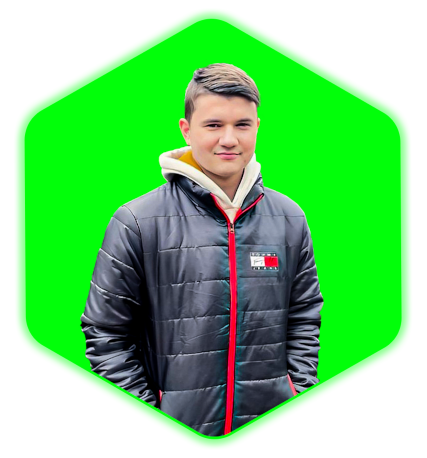
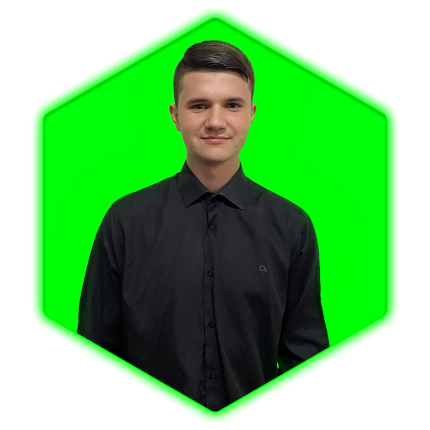
arrumando bug menu, efeito na seção, alterando foto e mudando texto da seçao sobre mim

diff --git a/src/components/Cabecalho/cabecalho.tsx b/src/components/Cabecalho/cabecalho.tsx
@@ -1,38 +1,102 @@
 import Botao from "../Botao/botao";
 import "bootstrap/dist/js/bootstrap.bundle.min.js";
 import "./cabecalho.css";
+import "bootstrap/dist/css/bootstrap.min.css";
+import "bootstrap/dist/js/bootstrap.bundle.min";
+import { useEffect, useRef } from "react";
 
 const curriculo = require("../../assets/curriculo.pdf")
 
+
+
 export default function Cabecalho() {
+  const offcanvasRef = useRef<HTMLDivElement | null>(null);
+
+  useEffect(() => {
+    const handleLinkClick = (event: Event) => {
+      const target = event.target as HTMLElement;
+      const offcanvas = offcanvasRef.current;
+
+      if (offcanvas && target.tagName === "A") {
+        event.preventDefault();
+        offcanvas.classList.remove("show");
+        offcanvas.style.visibility = "hidden";
+        document.body.style.overflow = "auto";
+
+        const targetId = (target.getAttribute("href") ?? "").slice(1);
+        if (targetId) {
+          document.getElementById(targetId)?.scrollIntoView({ behavior: "smooth" });
+        }
+
+        const backdrop = document.querySelector(".offcanvas-backdrop");
+        if (backdrop) {
+          backdrop.remove();
+        }
+
+        const toggleButton = document.querySelector(".navbar-toggler") as HTMLElement;
+        if (toggleButton) {
+          toggleButton.setAttribute("aria-expanded", "false");
+        }
+      }
+    };
+
+    document.addEventListener("click", handleLinkClick);
+    return () => {
+      document.removeEventListener("click", handleLinkClick);
+    };
+  }, []);
+
+  const toggleMenu = () => {
+    const offcanvas = offcanvasRef.current;
+    if (offcanvas) {
+      const isVisible = offcanvas.classList.contains("show");
+      if (isVisible) {
+        offcanvas.classList.remove("show");
+        offcanvas.style.visibility = "hidden";
+        document.body.style.overflow = "auto";
+      } else {
+        offcanvas.classList.add("show");
+        offcanvas.style.visibility = "visible";
+        document.body.style.overflow = "hidden";
+      }
+
+      // Remover backdrop antigo
+      const backdrop = document.querySelector(".offcanvas-backdrop");
+      if (backdrop) {
+        backdrop.remove();
+      }
+    }
+  };
+
   return (
     <header className="container-fluid py-3">
       <nav className="navbar navbar-expand-lg">
         <div className="container d-flex">
-          <div className="border-verde p-3  fs-5 fw-bold rounded-4">
+          <div className="border-verde p-3 fs-5 fw-bold rounded-4">
             &lt; &frasl; Gustavo &gt;
           </div>
           <button
-            className="navbar-toggler "
+            className="navbar-toggler"
             type="button"
-            data-bs-toggle="offcanvas"
-            data-bs-target="#offcanvasNavbar"
+            onClick={toggleMenu}
             aria-controls="offcanvasNavbar"
             aria-label="Toggle navigation"
           >
-            <span className="navbar-toggler-icon "></span>
+            <span className="navbar-toggler-icon"></span>
           </button>
           <div
-            className="offcanvas offcanvas-end bg-black  "
+            ref={offcanvasRef}
+            className="offcanvas offcanvas-end bg-black"
             tabIndex={-1}
             id="offcanvasNavbar"
             aria-labelledby="offcanvasNavbarLabel"
+            style={{ visibility: "hidden" }}
           >
             <div className="offcanvas-header">
               <button
                 type="button"
                 className="btn-close"
-                data-bs-dismiss="offcanvas"
+                onClick={toggleMenu}
                 aria-label="Close"
               ></button>
             </div>
@@ -59,12 +123,22 @@ export default function Cabecalho() {
                   </a>
                 </li>
                 <li className="nav-item">
-                  <a className="nav-link mb-4 mb-lg-0" href={curriculo} target="_blank" download rel="noreferrer">
+                  <a
+                    className="nav-link mb-4 mb-lg-0"
+                    href={curriculo}
+                    target="_blank"
+                    download
+                    rel="noreferrer"
+                  >
                     Currículo <i className="bi bi-download"></i>
                   </a>
                 </li>
               </ul>
-              <a href="https://api.whatsapp.com/send?phone=5548991849624" target="_blank" rel="noreferrer">
+              <a
+                href="https://api.whatsapp.com/send?phone=5548991849624"
+                target="_blank"
+                rel="noreferrer"
+              >
                 <Botao>Contato</Botao>
               </a>
             </div>

diff --git a/src/components/SobreMim/sobremim.tsx b/src/components/SobreMim/sobremim.tsx
@@ -1,11 +1,13 @@
+import { UsarIntersectionObserver } from "../Intersection/intersection";
 import Titulo from "../Titulo/titulo";
 import "./sobremim.css";
 
-const imageGrande = require("./foto-flutuante.png");
+const imageGrande = require("./foto-flutuando.png");
 
 export default function SobreMim() {
+  UsarIntersectionObserver()
   return (
-    <section id="sobre" className="container-xxl py-5 ">
+    <section id="sobre" className="container-xxl  hidden ">
       <div className="pb-4 text-center mb-3 ">
         <Titulo>
           <div className="fs-1 text-uppercase">
@@ -19,16 +21,35 @@ export default function SobreMim() {
             <span className="cor-verde">&#124;</span> Um pouco sobre mim
           </h4>
           <p className="fw-link-light texto-sobremim">
-            Olá, eu sou Gustavo, um desenvolvedor front-end especializado em
-            HTML, CSS, Bootstrap, JavaScript, React e Typescript. Desde que me interessei na
-            área da programação, venho estudando diariamente para conseguir a
-            minha primeira oportunidade como desenvolvedor front-end. Há dois
-            anos que venho desenvolvendo diversos projetos para colocar em
-            prática todo o meu conhecimento que venho aprendendo nos cursos, e
-            tenho certeza que estou pronto para somar na sua equipe de
-            programadores. Tenho Facilidade de aprendizado, boa comunicação e a
-            todo momento busco me aprimorar cada vez mais.
-          </p>
+          Olá, sou Gustavo, um Desenvolvedor Front-End apaixonado por criar interfaces dinâmicas e responsivas. Tenho expertise em HTML5, CSS3, JavaScript, Bootstrap, React e TypeScript, com um histórico de projetos bem-sucedidos que melhoraram significativamente a experiência do usuário.</p>
+
+          <p className="fw-link-light texto-sobremim">Estou em busca de novas oportunidades para aplicar minhas habilidades em desenvolvimento web e contribuir para o sucesso de uma empresa inovadora.</p>
+
+          <p className="fw-link-light texto-sobremim">A minha experiência no Supermercado Silveira foi muito importante para mim, pois nela desenvolvi diversas habilidades fundamentais.</p>
+
+          <div className="d-flex gap-5">
+            <p className="fw-link-light texto-sobremim">
+              Chefe de Caixa: <br />
+              • Atendimento ao cliente <br />
+              • Supervisão de equipe <br />
+              • Gestão de caixa <br />
+              • Fechamento e relatórios <br />
+              • Manutenção de equipamentos <br />
+              • Segurança e conformidade <br />
+              • Comunicação
+            </p>
+            <p className="fw-link-light texto-sobremim">
+              Auxiliar Administrativo: <br />
+              • Verificação de documentos <br />
+              • Registro de informações <br />
+              • Controle de estoque <br />
+              • Comunicação com fornecedores <br />
+              • Suporte á contabilidade <br />
+              • Conformidade legal <br />
+              • Relatórios
+            </p>
+          </div>
+          
 
           <div className="d-flex gap-4 fs-4 mt-5 my-3">
             <a

diff --git a/src/components/Inicio/inicio.tsx b/src/components/Inicio/inicio.tsx
@@ -1,23 +1,31 @@
 import Botao from "../Botao/botao";
 import Subtitulo from "../Subtitulo/subtitulo";
 import Titulo from "../Titulo/titulo";
-import "./inicio.css";
+
+import "bootstrap/dist/css/bootstrap.min.css";
+import "bootstrap/dist/js/bootstrap.bundle.min";
+import { UsarIntersectionObserver } from "../Intersection/intersection";
 
 export default function Inicio() {
+
+   UsarIntersectionObserver()
   return (
-    <section id="inicio" className="container container-inicio d-flex flex-column justify-content-center text-center pb-5" >
-            <Titulo>Olá e bem vindo(a)</Titulo>
-            <Subtitulo>
-              <>
-              Eu sou o <span className="texto-verde">Gustavo Bento</span>
-              </>
-            </Subtitulo>
-            <h5 className="fst-italic fw-light">Desenvolvedor Front-end</h5>
-            <div className="text-black mt-3">
-                  <a href="#sobre">
-                    <Botao>Saiba mais</Botao>
-                  </a>
-            </div>
+    <section
+      id="inicio"
+      className="container container-inicio d-flex flex-column justify-content-center text-center pb-5 hidden"
+    >
+      <Titulo>Olá e bem vindo(a)</Titulo>
+      <Subtitulo>
+        <>
+          Eu sou o <span className="texto-verde">Gustavo Bento</span>
+        </>
+      </Subtitulo>
+      <h5 className="fst-italic fw-light">Desenvolvedor Front-end</h5>
+      <div className="text-black mt-3">
+        <a href="#sobre">
+          <Botao>Saiba mais</Botao>
+        </a>
+      </div>
     </section>
   );
 }

diff --git a/src/components/Especialidades/especialidades.tsx b/src/components/Especialidades/especialidades.tsx
@@ -1,3 +1,4 @@
+import { UsarIntersectionObserver } from "../Intersection/intersection";
 import Titulo from "../Titulo/titulo";
 import "./especialidades.css";
 
@@ -8,9 +9,11 @@ const iconeJs = require("../../assets/logo-javascript.png");
 const iconeReact = require("../../assets/logo-react.png");
 const iconeTypescript = require("../../assets/logo-typescript.png");
 
+
 export default function Especialidades() {
+  UsarIntersectionObserver()
   return (
-    <section className="container-xxl py-5" id="especialidades">
+    <section className="container-xxl  hidden" id="especialidades">
       <div className="text-uppercase text-center py-5">
         <Titulo>
           <div className="fs-1">

diff --git a/src/components/Projetos/projetos.tsx b/src/components/Projetos/projetos.tsx
@@ -1,4 +1,5 @@
 import ImagemProjeto from "../ImagemProjeto/imagemProjeto";
+import { UsarIntersectionObserver } from "../Intersection/intersection";
 import Titulo from "../Titulo/titulo";
 import "./projetos.css";
 
@@ -7,8 +8,9 @@ const projetoOrgano = require("../../assets/projeto-organo.png");
 const projetoCinetag = require("../../assets/projeto-cinetag.png");
 
 export default function Projetos() {
+  UsarIntersectionObserver()
   return (
-    <section className="container-xxl py-5 " id="projetos">
+    <section className="container-xxl py-5 hidden " id="projetos">
       <div className="interface">
         <div className="text-center pb-5">
               <Titulo>

diff --git a/src/components/Intersection/intersection.tsx b/src/components/Intersection/intersection.tsx
@@ -1,0 +1,18 @@
+import { useEffect } from "react"
+
+export const UsarIntersectionObserver = () => {
+      useEffect(() => {
+        const observer = new IntersectionObserver((itens) => {
+          itens.forEach((item) => {
+            if (item.isIntersecting) {
+              item.target.classList.add("show");
+            } else {
+              item.target.classList.remove("show");
+            }
+          });
+        });
+        
+        const secoesInicio = document.querySelectorAll('.hidden'); 
+          secoesInicio.forEach((item) => observer.observe(item)); 
+          }, []); 
+      }

diff --git a/src/components/Formulario/formulario.tsx b/src/components/Formulario/formulario.tsx
@@ -1,12 +1,14 @@
 import Botao from "../Botao/botao";
 import Input from "../Input/input";
+import { UsarIntersectionObserver } from "../Intersection/intersection";
 import Titulo from "../Titulo/titulo";
 import "./formulario.css";
 
 export default function Formulario() {
-  
+
+  UsarIntersectionObserver()
   return (
-    <section className="container-xxl py-5">
+    <section className="container-xxl py-5 hidden">
       <Titulo>
         <div className="text-uppercase text-center fs-1 pb-5">
           Entre em <span className="cor-verde">contato</span>

diff --git a/src/index.css b/src/index.css
@@ -31,3 +31,19 @@ code {
 .cor-verde {
   color: var(--verde);
 }
+
+.hidden {
+  opacity: 0;
+  transform: translateX(-100%);
+  transition: all 1s;
+}
+
+.show {
+  opacity: 1;
+  transform: translateX(0);
+  transition: all 1.5s;
+}
+
+section {
+  min-height: 100vh;
+}
